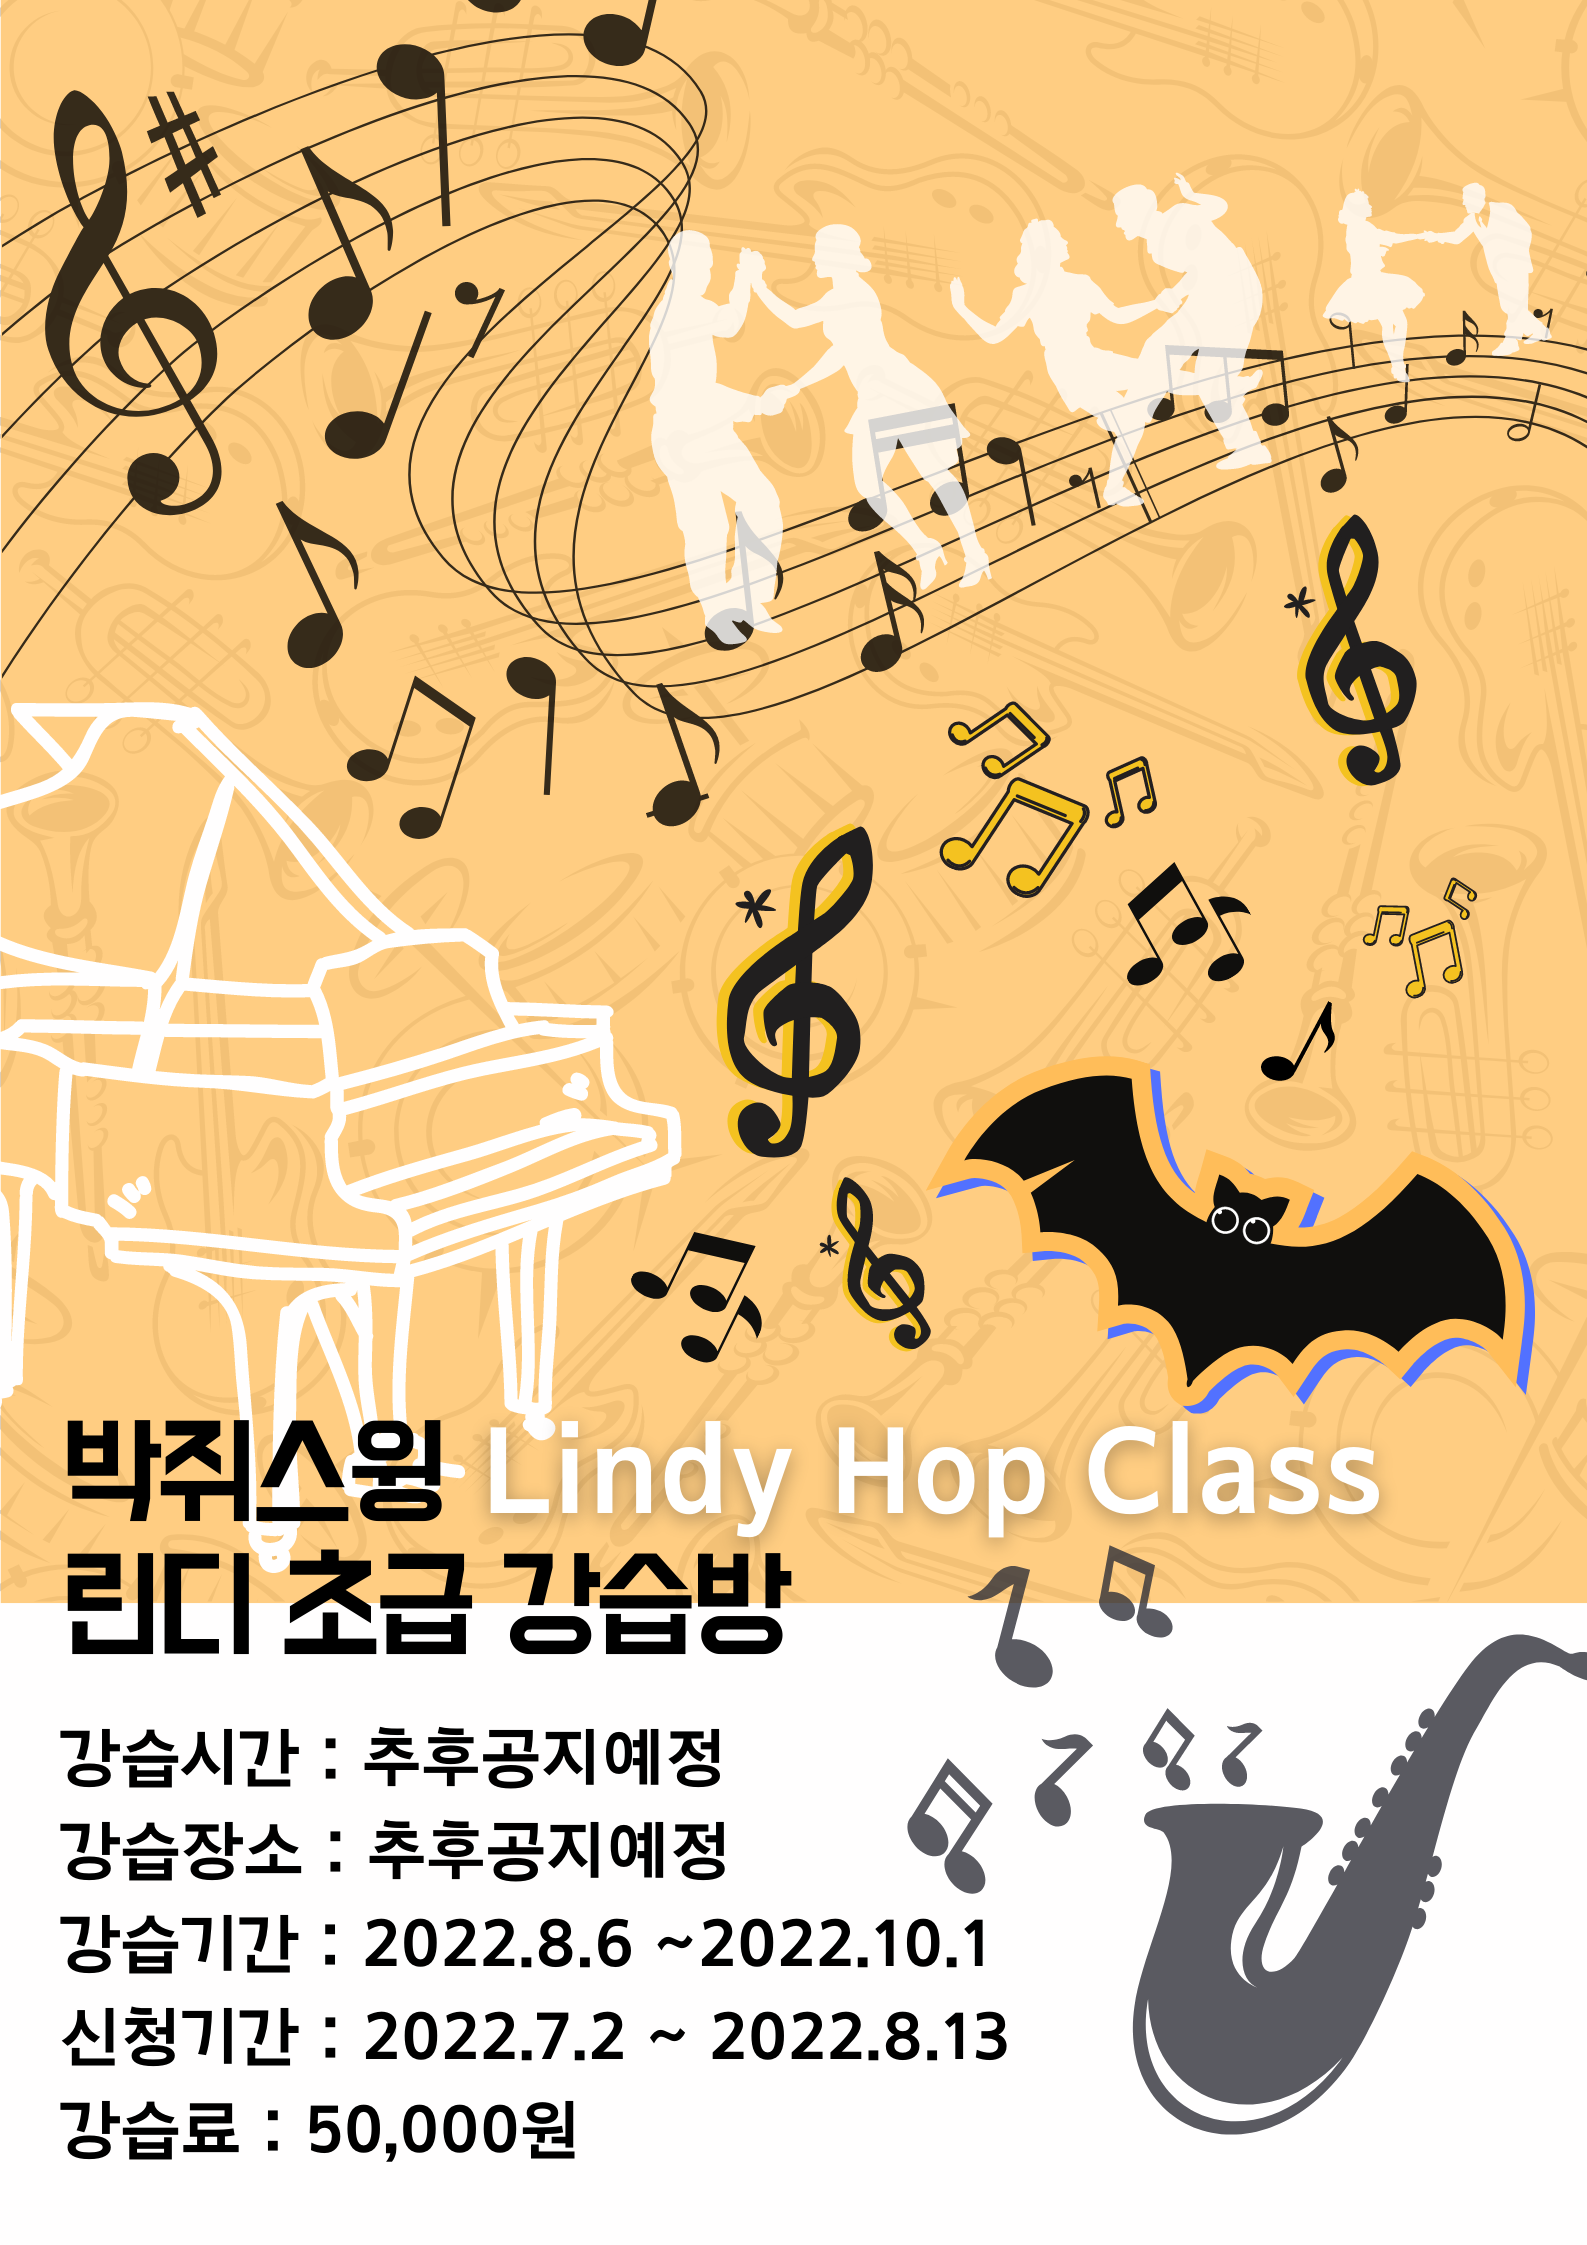
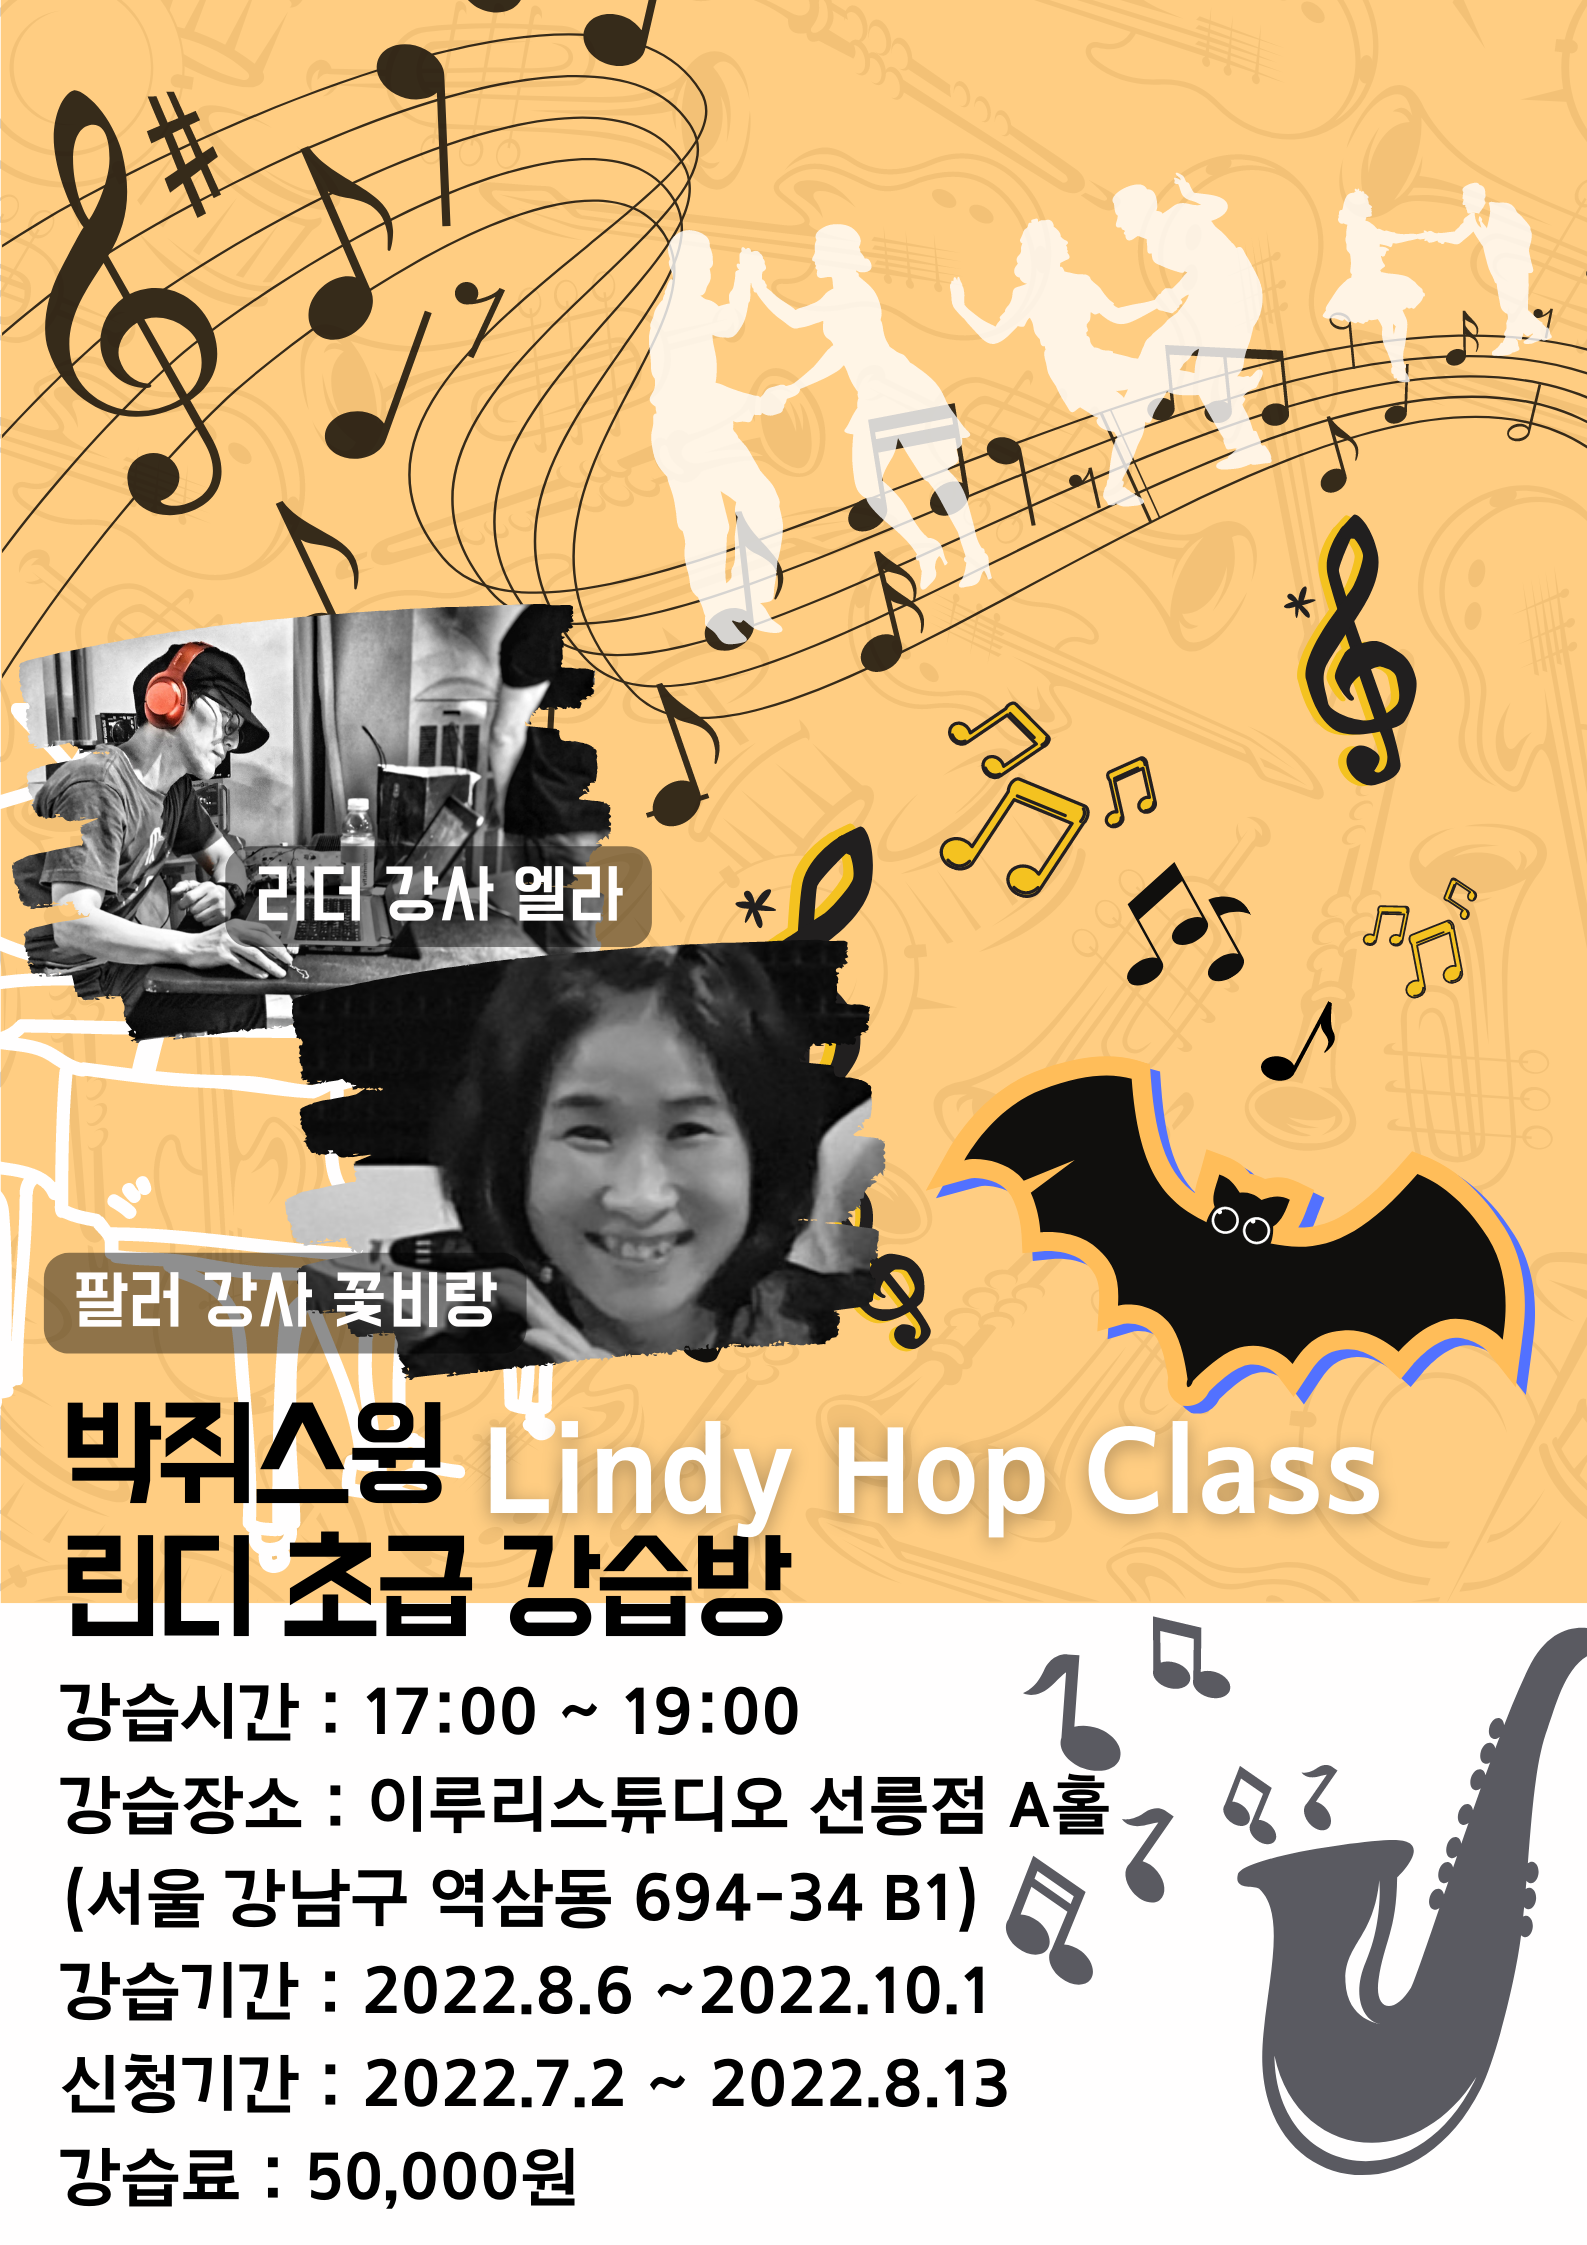
97수강신청

Changed region(s): [[0.0, 0.2494, 1.0, 0.9978]]

diff --git a/index.html b/index.html
@@ -391,8 +391,8 @@
         <!--<div class="class-image rounded-circle" style="background-image:url('/storage/class/97/97_jitterbug.png');"></div> -->
         <div class="class-image" style="background-image:url('/storage/class/97/97_jitterbug.png');"></div>
         <h2 class="text-class-red mt-2 mb-0 font-face-dohyeon">스윙입문(지터벅)</h2>
-        <p class="text-dark mb-3"><small></small></p>
-        <div class="mt-2"> <ul class='mb-3'> <li><strong>- 기간</strong> : 8주 강습(8/06 ~ 10/01)</li> <li><strong>- 시간</strong> : 매주 토요일(18:00~20:00)</li> <li><strong>- 장소</strong> : 봉은사로 315,B1 라움댄스 스튜디오 </li> </ul> </div>
+        <p class="text-dark mb-3"><small>조이 & 크리크리</small></p>
+        <div class="mt-2"> <ul class='mb-3'> <li><strong>- 기간</strong> : 8주 강습(8/06 ~ 10/01)</li> <li><strong>- 시간</strong> : 매주 토요일(18:00~20:00)</li> <li><strong>- 장소</strong> : 봉은사로 315, 라움댄스 스튜디오 </li> </ul> </div>
         
           <p>
             
@@ -419,8 +419,8 @@
         <!--<div class="class-image rounded-circle" style="background-image:url('/storage/class/97/97_lindy_1.png');"></div> -->
         <div class="class-image" style="background-image:url('/storage/class/97/97_lindy_1.png');"></div>
         <h2 class="text-class-red mt-2 mb-0 font-face-dohyeon">린디 초급</h2>
-        <p class="text-dark mb-3"><small></small></p>
-        <div class="mt-2"> <ul class='mb-3'> <li><strong>- 기간</strong> : 8주 강습(8/06 ~ 10/01)</li> <li><strong>- 시간</strong> : 매주 토요일(17:00~19:00)</li> <li><strong>- 장소</strong> : 추후공지</li> </ul> </div>
+        <p class="text-dark mb-3"><small>엘라 & 꽃비랑</small></p>
+        <div class="mt-2"> <ul class='mb-3'> <li><strong>- 기간</strong> : 8주 강습(8/06 ~ 10/01)</li> <li><strong>- 시간</strong> : 매주 토요일(17:00~19:00)</li> <li><strong>- 장소</strong> : 역삼동 694-34, 이루리 스튜디오</li> </ul> </div>
         
           <p>
             
@@ -447,8 +447,8 @@
         <!--<div class="class-image rounded-circle" style="background-image:url('/storage/class/97/97_lindy_2.png');"></div> -->
         <div class="class-image" style="background-image:url('/storage/class/97/97_lindy_2.png');"></div>
         <h2 class="text-class-red mt-2 mb-0 font-face-dohyeon">린디 초중급</h2>
-        <p class="text-dark mb-3"><small></small></p>
-        <div class="mt-2"> <ul class='mb-3'> <li><strong>- 기간</strong> : 8주 강습(8/06 ~ 10/01)</li> <li><strong>- 시간</strong> : 매주 토요일(17:00~19:00)</li> <li><strong>- 장소</strong> : 추후공지</li> </ul> </div>
+        <p class="text-dark mb-3"><small>달려 & 신도림</small></p>
+        <div class="mt-2"> <ul class='mb-3'> <li><strong>- 기간</strong> : 8주 강습(8/06 ~ 10/01)</li> <li><strong>- 시간</strong> : 매주 토요일(17:00~19:00)</li> <li><strong>- 장소</strong> : 테헤란로 51길 23, 맥아트 홀</li> </ul> </div>
         
           <p>
             
@@ -475,8 +475,8 @@
         <!--<div class="class-image rounded-circle" style="background-image:url('/storage/class/97/97_lindy_3.png');"></div> -->
         <div class="class-image" style="background-image:url('/storage/class/97/97_lindy_3.png');"></div>
         <h2 class="text-class-red mt-2 mb-0 font-face-dohyeon">린디 중급</h2>
-        <p class="text-dark mb-3"><small></small></p>
-        <div class="mt-2"> <ul class='mb-3'> <li><strong>- 기간</strong> : 8주 강습(8/06 ~ 10/01)</li> <li><strong>- 시간</strong> : 매주 토요일(17:00~19:00)</li> <li><strong>- 장소</strong> : 추후공지</li> </ul> </div>
+        <p class="text-dark mb-3"><small>제임스 & 애플</small></p>
+        <div class="mt-2"> <ul class='mb-3'> <li><strong>- 기간</strong> : 8주 강습(8/06 ~ 10/01)</li> <li><strong>- 시간</strong> : 매주 토요일(17:00~19:00)</li> <li><strong>- 장소</strong> : 선릉로 115길 27, space27</li> </ul> </div>
         
           <p>
             
